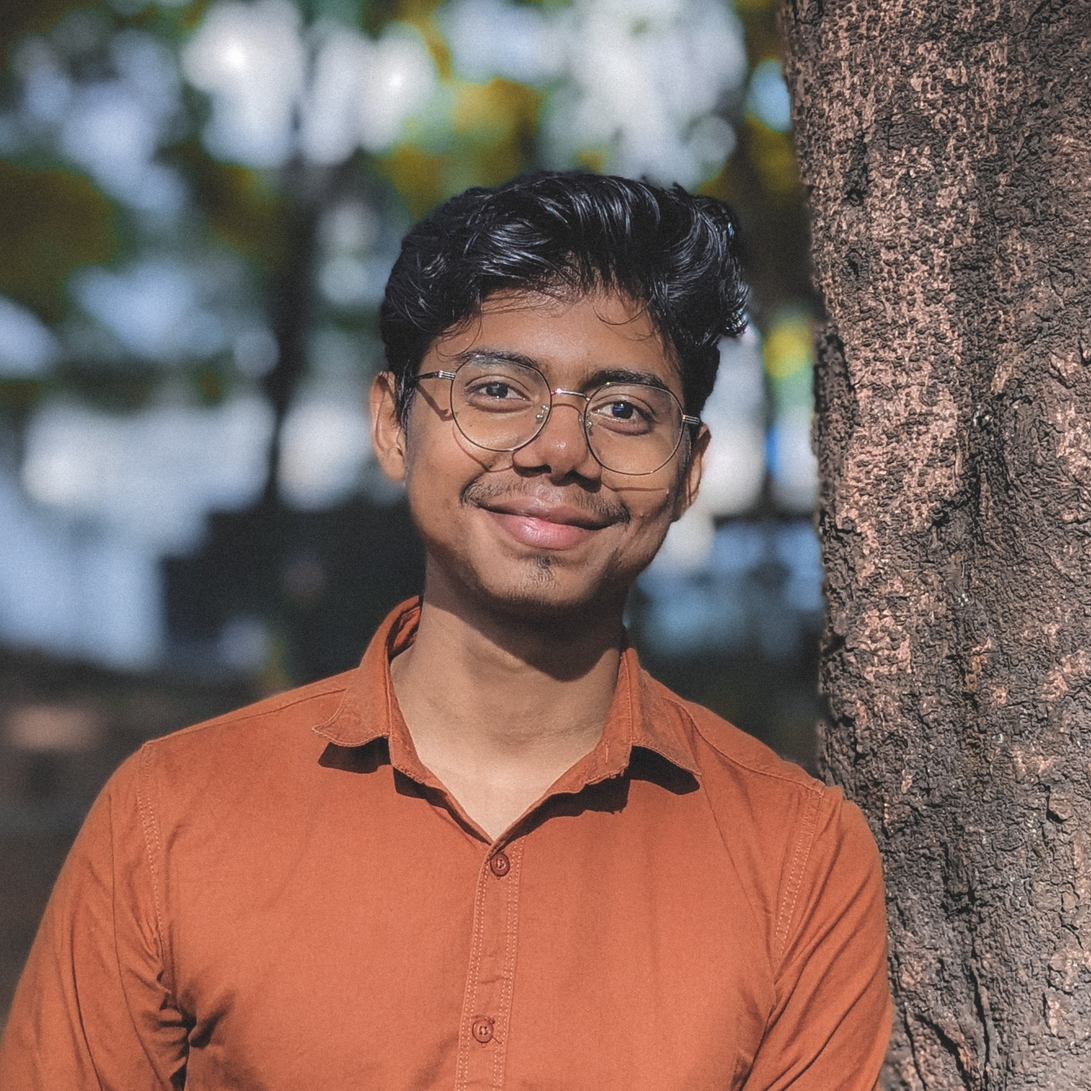
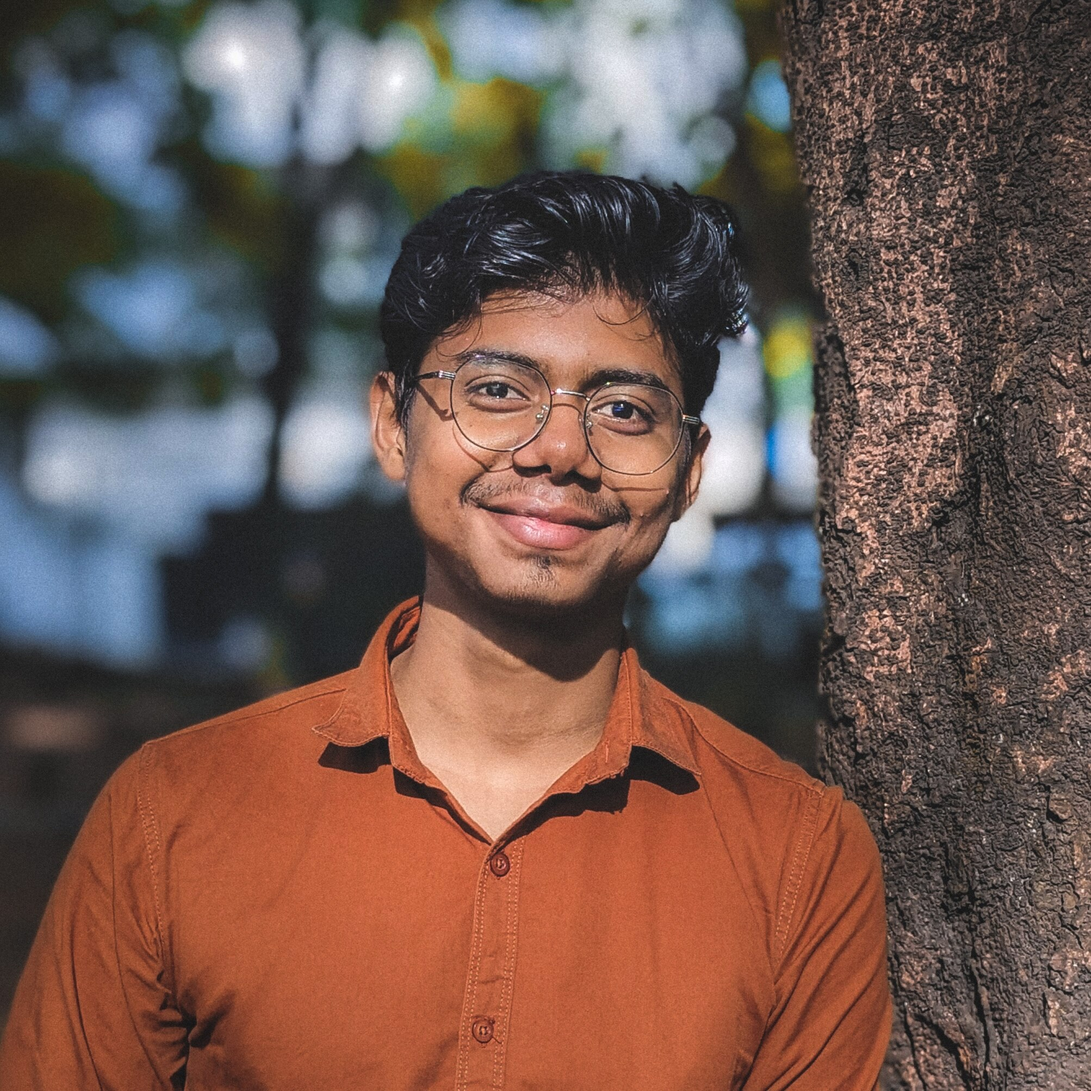
profile pic updated

diff --git a/src/components/ContactIntro/ContactIntro.tsx b/src/components/ContactIntro/ContactIntro.tsx
@@ -59,8 +59,8 @@ const ContactIntro: React.FC<ContactIntroProps> = ({ title, profile_image_path, 
           <Image
             borderRadius={"10px"}
             w={{
-              sm: "250px",
-              base: "200px",
+              sm: "350px",
+              base: "280px",
             }}
             src={`./images/${profile_image_path}`}
           />{" "}
